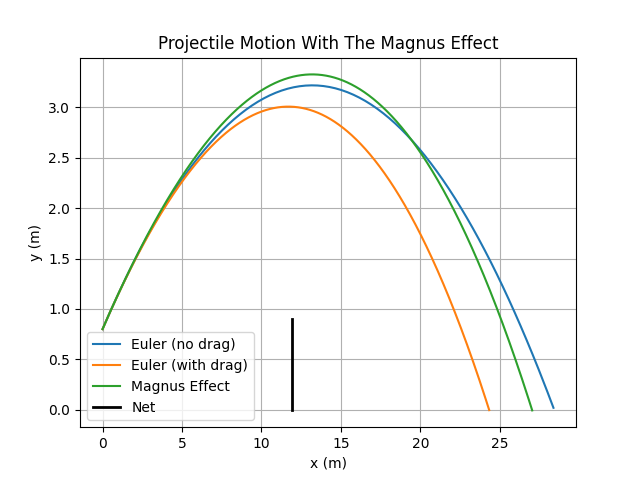
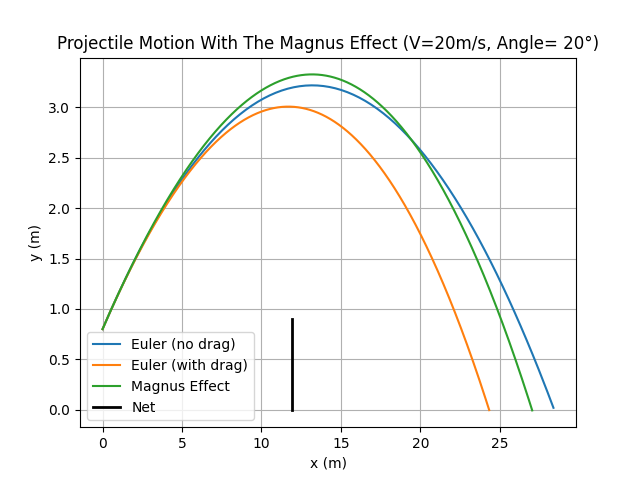
q4 graphs new titles

Changed region(s): [[0.0938, 0.0625, 0.9375, 0.125]]

diff --git a/term2Coursework1.py b/term2Coursework1.py
@@ -414,7 +414,7 @@ plt.plot(xNum, yNum, label="Euler (no drag)")
 plt.plot(xListQuestion2, yListQuestion2, label = "Euler (with drag)")
 plt.xlabel('x (m)')
 plt.ylabel('y (m)')
-plt.title('Projectile Motion With The Magnus Effect')
+plt.title('Projectile Motion With The Magnus Effect (V=20m/s, Angle= 15°)')
 plt.legend()
 plt.grid(True)
 
@@ -428,6 +428,7 @@ plt.plot(point1,point2,linestyle = "-", linewidth = 2, label = "Net", color = '#
 plt.legend()
 plt.grid(True)
 plt.savefig("V20Alpha15Deg.png")
+
 
 
 """
